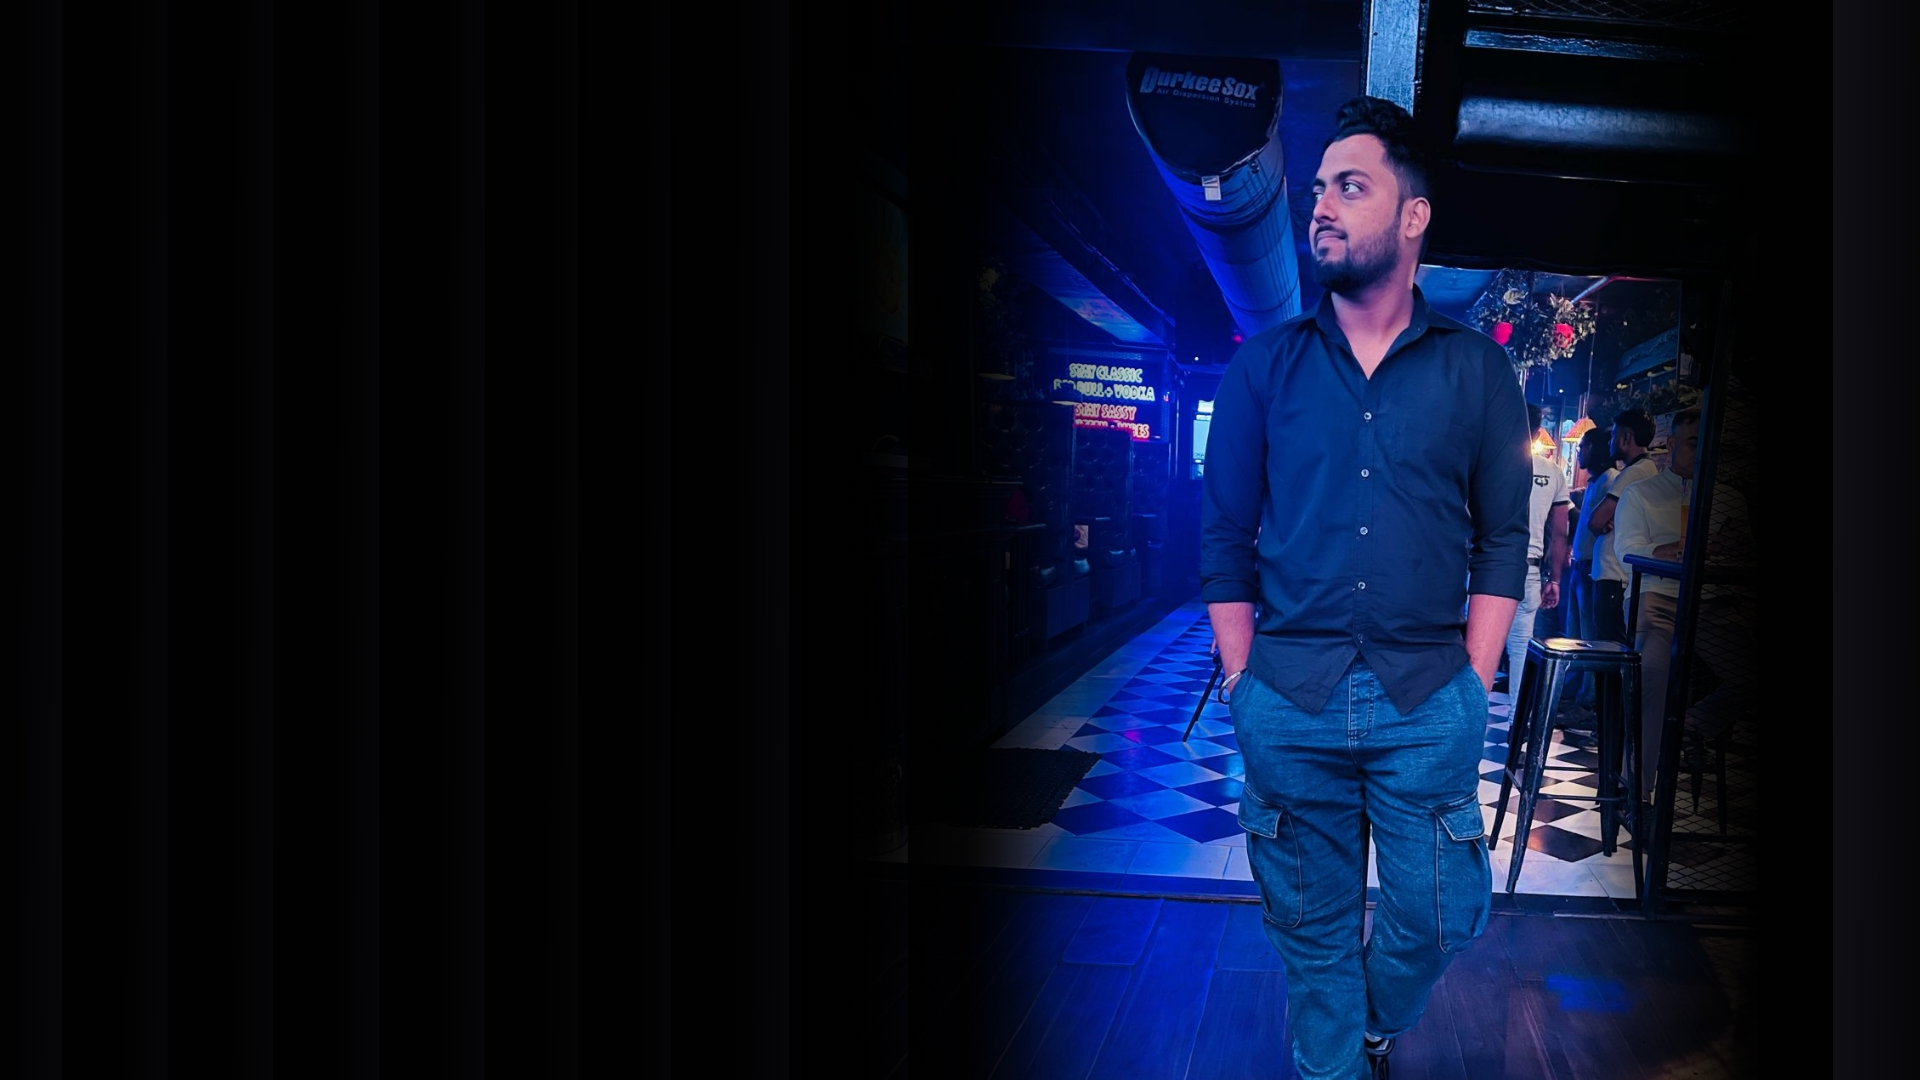
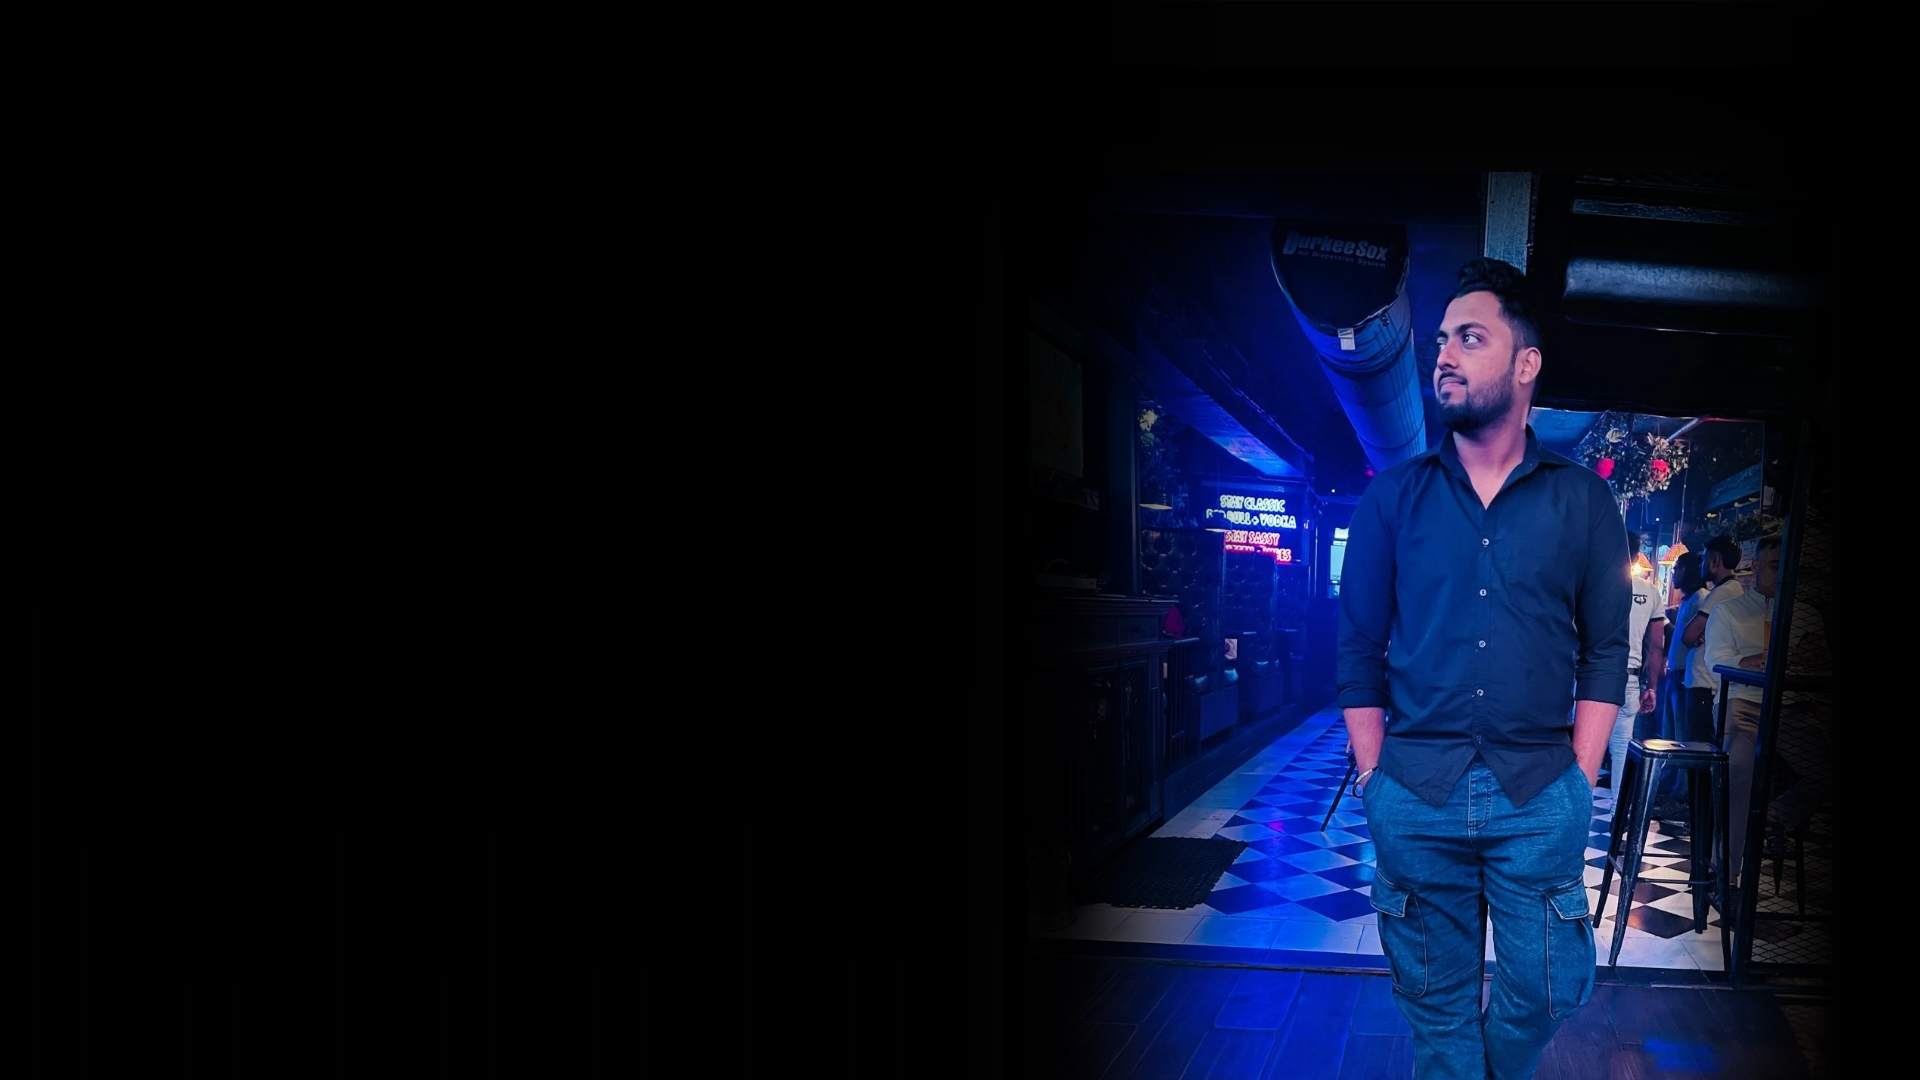
Updated header page

diff --git a/style.css b/style.css
@@ -13,7 +13,7 @@ body{
 #header{
     width: 100%;
     height: 100vh;
-    background-image: url();
+    background-image: url(assets/background.jpg);
     background-size: cover;
     background-position: center;
 }
@@ -43,15 +43,38 @@ nav ul li a{
     color: #fff;
     text-decoration: none;
     font-size: 18px;
+    position: relative;
 }
 
 nav ul li a::after{
     content: '';
-    width: 100%;
+    width: 0;
     height: 3px;
-    background: #ff004f;
+    background: #c669e1;
     position: absolute;
     left: 0;
     bottom: -6px;
+    transition: 0.5s;
+}
 
+nav ul li a:hover::after{
+    width: 100%
+}
+
+.header-text{
+    margin-top: 20%;
+    font-size: 20px;
+}
+
+.header-text p{
+    padding-left: 5px;
+}
+
+.header-text h1{
+    margin-top: 20px;
+    font-size: 60px;
+}
+
+.header-text h1 span{
+    color: #c669e1;
 }

diff --git a/index.html b/index.html
@@ -10,7 +10,7 @@
     <div id="header">
         <div class="container">
             <nav>
-                <img src="" alt="" class="logo">
+                <img src="assets/logo.png" alt="" class="logo">
                 <ul>
                     <li><a href="#">Home</a></li>
                     <li><a href="#">About</a></li>
@@ -19,6 +19,10 @@
                     <li><a href="#">Contact</a></li>
                 </ul>
             </nav>
+            <div class="header-text">
+                <p>SOFTWARE DEVELOPER</p>
+                <h1>Hi, I'm <span>Suraj</span><br>Sharma from India</h1>
+            </div>
         </div>
     </div>
     
